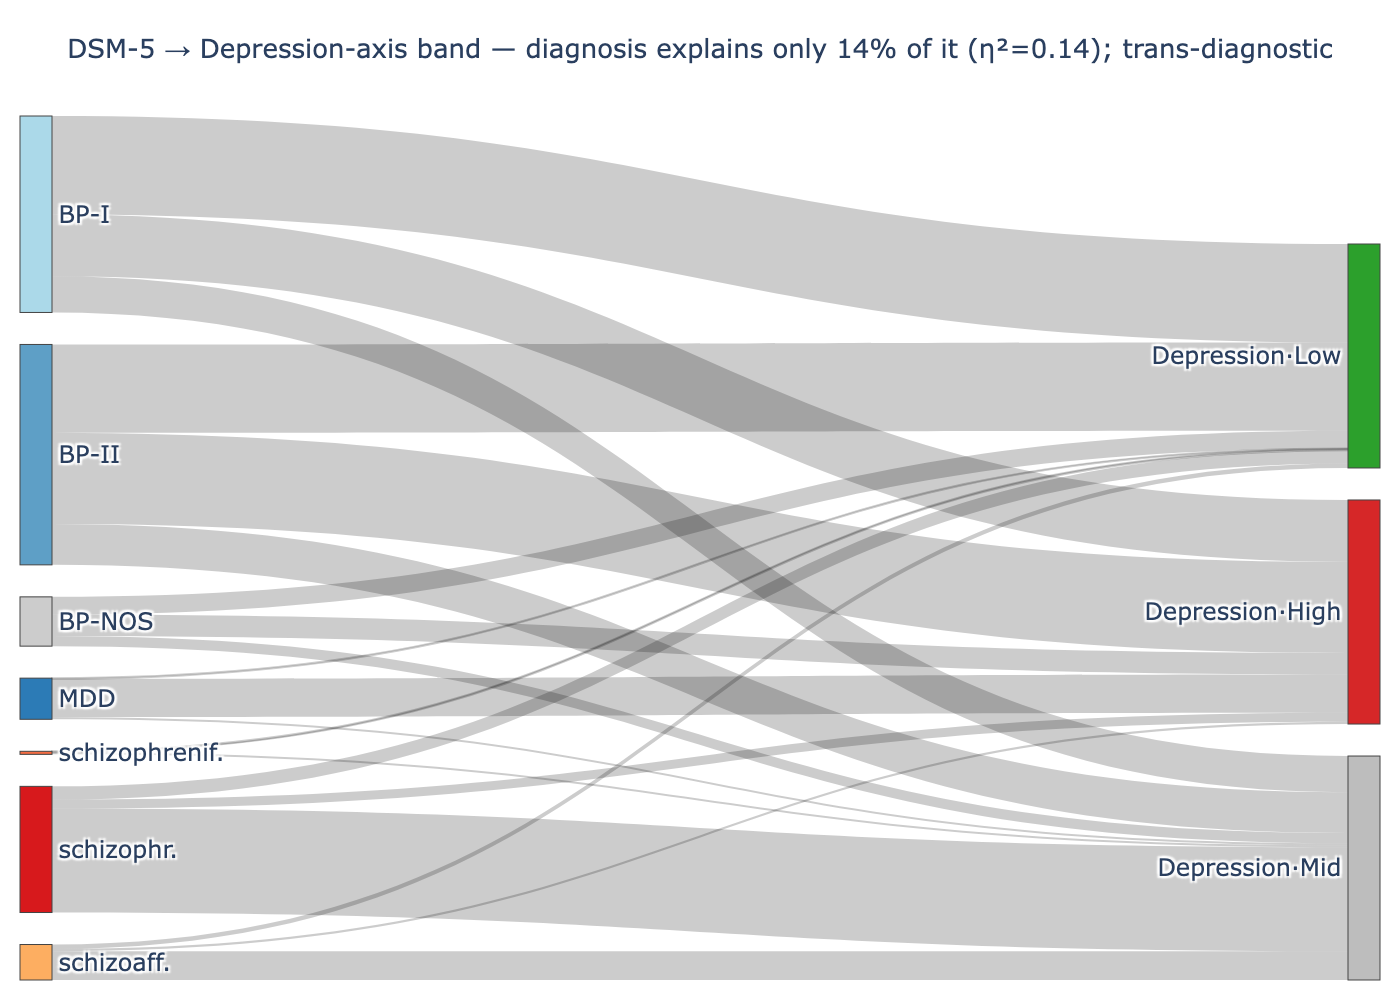
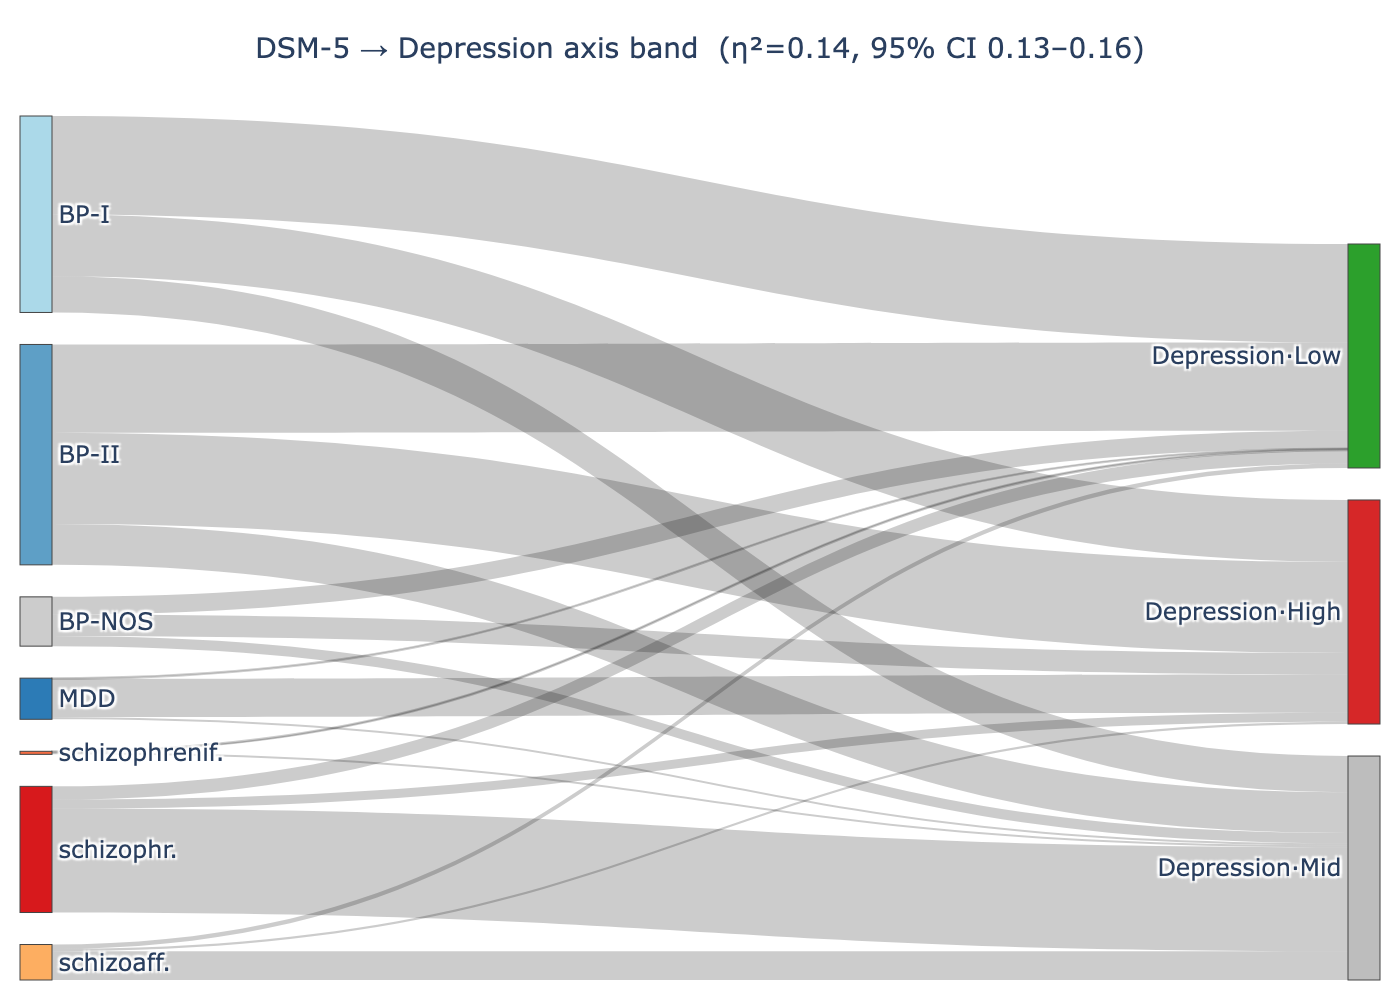
eta-squared with 95% bootstrap CIs (DSM-5 explains little of each axis)
2000-sample patient bootstrap on the DSM-5 -> axis variance-explained:
depression 0.145 [0.130-0.160], illness-burden 0.122 [0.109-0.136], mania
0.043 [0.036-0.053], ADHD 0.019 [0.015-0.026], later-onset 0.010
[0.007-0.016], metabolic 0.010 [0.006-0.015]. Tight CIs (n=9013): even the
upper bound of the most diagnosis-linked axis is 0.16 -> trans-diagnostic claim
is robust. Wired CIs into MANUSCRIPT 3.3 + Fig 6c caption + FINDINGS 3c; saved
results/dimensional_dsm_eta_squared.csv.

Changed region(s): [[0.0307, 0.031, 0.9521, 0.062]]

diff --git a/scripts/export_dimensional_flow.py b/scripts/export_dimensional_flow.py
@@ -158,11 +158,26 @@ def main() -> int:
 
     # ── Fig 6c: DSM-5 → axis-band (cross-sectional, trans-diagnostic overlap) ──
     dsm = load_dsm_for(v0.index)
-    g = dsm.to_numpy().astype(str)
-    eta = {ax: eta_squared(v0[ax].to_numpy(float), g) for ax in AXES}
-    print("\nVariance in each axis explained by DSM-5 subtype (η²; low ⇒ trans-diagnostic):")
+    valid = dsm.notna().to_numpy()
+    g = dsm.to_numpy().astype(str)[valid]
+    V = v0[AXES].to_numpy(float)[valid]
+    # point η² + 95% bootstrap CI (B resamples of patients) per axis
+    B, rng, n = 2000, np.random.default_rng(0), len(g)
+    pt = np.array([eta_squared(V[:, j], g) for j in range(len(AXES))])
+    boot = np.empty((B, len(AXES)))
+    for b in range(B):
+        idx = rng.integers(0, n, n); gb = g[idx]
+        for j in range(len(AXES)):
+            boot[b, j] = eta_squared(V[idx, j], gb)
+    lo_a, hi_a = np.percentile(boot, [2.5, 97.5], axis=0)
+    eta = dict(zip(AXES, pt)); lo = dict(zip(AXES, lo_a)); hi = dict(zip(AXES, hi_a))
+    print(f"\nVariance in each axis explained by DSM-5 subtype (η² [95% bootstrap CI], B={B}, "
+          f"n={n}):")
     for ax in AXES:
-        print(f"  {PRETTY[ax]:14s} η²={eta[ax]:.3f}")
+        print(f"  {PRETTY[ax]:14s} η²={eta[ax]:.3f}  [{lo[ax]:.3f}, {hi[ax]:.3f}]")
+    pd.DataFrame({"axis": AXES, "eta_sq": [eta[a] for a in AXES],
+                  "ci_lo": [lo[a] for a in AXES], "ci_hi": [hi[a] for a in AXES]}
+                 ).to_csv(RES / "dimensional_dsm_eta_squared.csv", index=False)
     best = max(AXES, key=lambda a: eta[a])              # most diagnosis-linked axis
     bv0 = band(v0[best], edges[best])
     pair = pd.DataFrame({"dsm": dsm.to_numpy(), "band": bv0.to_numpy()}).dropna()
@@ -181,10 +196,10 @@ def main() -> int:
     figc = go.Figure(go.Sankey(node=dict(label=nodes, color=node_color, pad=16, thickness=16),
                                link=dict(source=src, target=tgt, value=val)))
     figc.update_layout(
-        title=dict(text=f"DSM-5 → {PRETTY[best]}-axis band — diagnosis explains only "
-                        f"{eta[best]*100:.0f}% of it (η²={eta[best]:.2f}); trans-diagnostic",
-                   font=dict(size=13), x=0.5, xanchor="center"),
-        height=460, width=1100, font=dict(size=12), margin=dict(t=58, l=10, r=10, b=10))
+        title=dict(text=f"DSM-5 → {PRETTY[best]} axis band  "
+                        f"(η²={eta[best]:.2f}, 95% CI {lo[best]:.2f}–{hi[best]:.2f})",
+                   font=dict(size=14), x=0.5, xanchor="center"),
+        height=460, width=1040, font=dict(size=12), margin=dict(t=58, l=10, r=10, b=10))
     for ext in ("png", "svg"):
         figc.write_image(str(FIG / f"fig6c_dsm_axis_flow.{ext}"), scale=2)
     print(f"  wrote reports/figures/fig6c_dsm_axis_flow.png/.svg  (axis={best}, η²={eta[best]:.3f})")

diff --git a/MANUSCRIPT.md b/MANUSCRIPT.md
@@ -421,9 +421,10 @@ the data do not contain. We therefore model the trans-diagnostic variation dimen
 The six-dimension model (Table 2; `results/dimensional_final_loadings.csv`; Figure 2) was
 reproducible (split-half minimum Tucker congruence 0.95, mean 0.98) and essentially
 orthogonal to demographics (maximum |correlation| with age/sex ≤0.002 for all six). They are
-also largely **independent of diagnosis**: DSM-5 subtype explains only η² = 0.01–0.05 of the
-variance of five of the six axes and 14% of the most diagnosis-linked (depression) axis
-(Figure 6c) — the dimensions are genuinely trans-diagnostic, not diagnosis re-encodings. No
+also largely **independent of diagnosis**: DSM-5 subtype explains only η² = 0.01–0.05 (95% CI
+upper bounds ≤0.053) of the variance of five of the six axes, and 0.14 (95% CI 0.13–0.16) of
+the most diagnosis-linked (depression) axis (Figure 6c; 2000-sample bootstrap) — the
+dimensions are genuinely trans-diagnostic, not diagnosis re-encodings. No
 single dimension dominated (variance diffuse; largest ≈6%), confirming genuinely
 multi-axial structure. The dimensions are:
 
@@ -742,8 +743,8 @@ correspondingly named `reports/*.html`.
   and the discrete clusters' 38% — a patient's continuous-axis *position* is retained where
   discrete *labels* hop; **(c)** cross-sectional **DSM-5 → axis-band** flow for the most
   diagnosis-linked axis (depression): every DSM-5 subtype fans across Low/Mid/High and diagnosis
-  explains only 14% of even that axis (η² 0.14; ≤0.05 for the other five) — the dimensions are
-  trans-diagnostic. This is the dimensional analogue of a phenotype-flow diagram (bands are a
+  explains only 14% of even that axis (η² 0.14, 95% CI 0.13–0.16; ≤0.05 for the other five) —
+  the dimensions are trans-diagnostic. This is the dimensional analogue of a phenotype-flow diagram (bands are a
   display-only discretization; the model stays continuous).
 
 ---

diff --git a/FINDINGS.md b/FINDINGS.md
@@ -132,8 +132,8 @@ fragility is itself a discreteness red flag.)
   axis band* far better — same-band V0→V1 persistence **0.32–0.60** (depression 0.60, ADHD/trauma
   0.56) vs the discrete labels' 0.39: the **labels hop, the positions are stable**. Cross-
   sectionally the axes are also **diagnosis-independent** — DSM-5 subtype explains only
-  **η² 0.01–0.14** of each axis (depression 0.14 highest, ≤0.05 for five of six;
-  `export_dimensional_flow.py` fig6c). DR excluded at V3 (attrition).
+  **η² 0.01–0.14** of each axis (depression 0.14 [95% CI 0.13–0.16] highest, ≤0.05 for five of
+  six; 2000-sample bootstrap; `dimensional_dsm_eta_squared.csv`, fig6c). DR excluded at V3.
 
 ### 3d. Dimensional axis model — the convincing representation (classical + AI)
 Following the dimensional verdict (§2.4): model trans-diagnostic variation as
